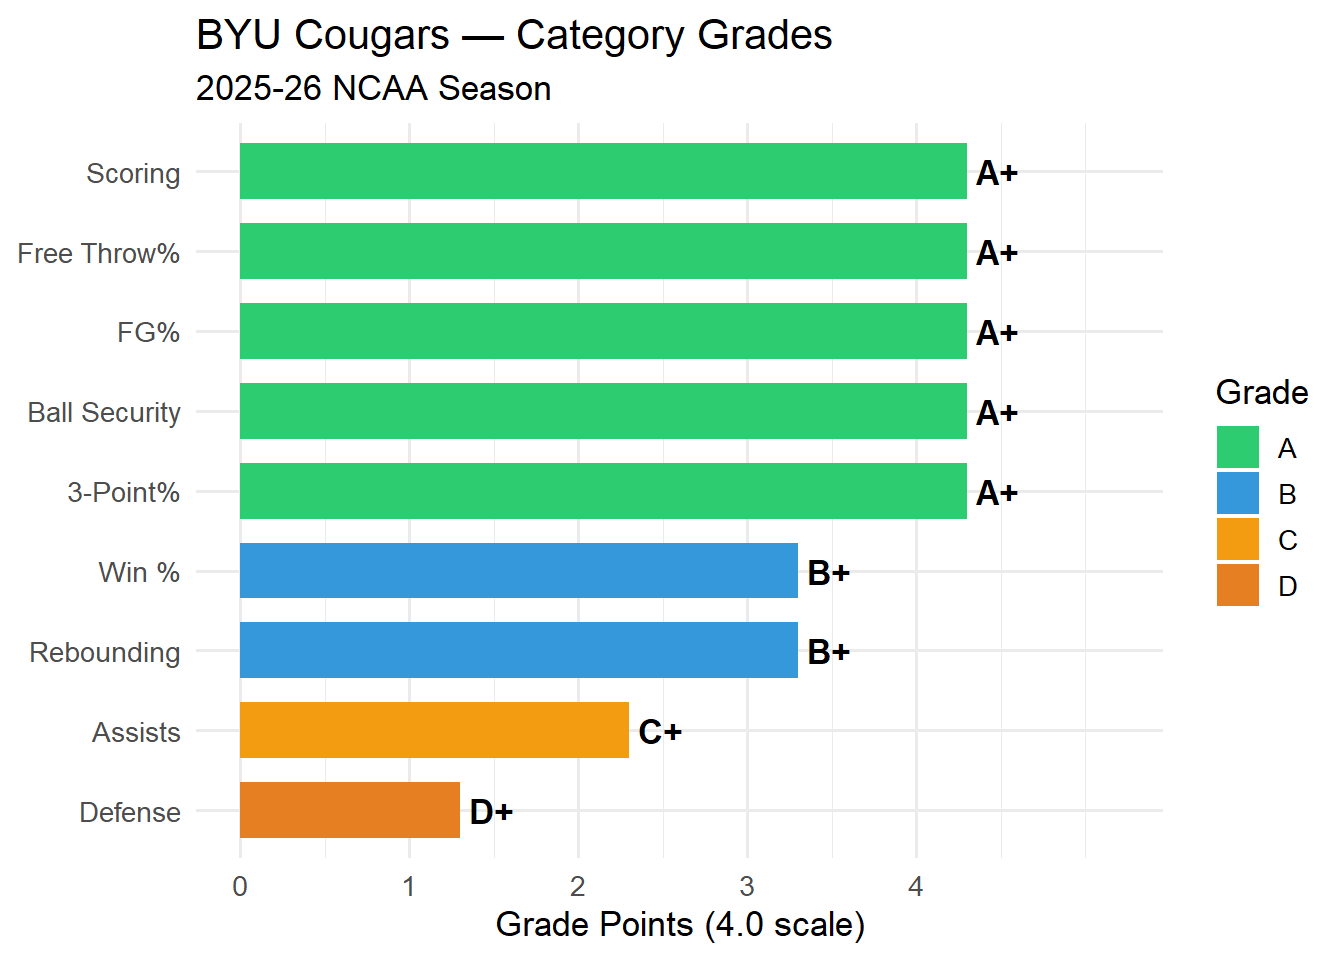
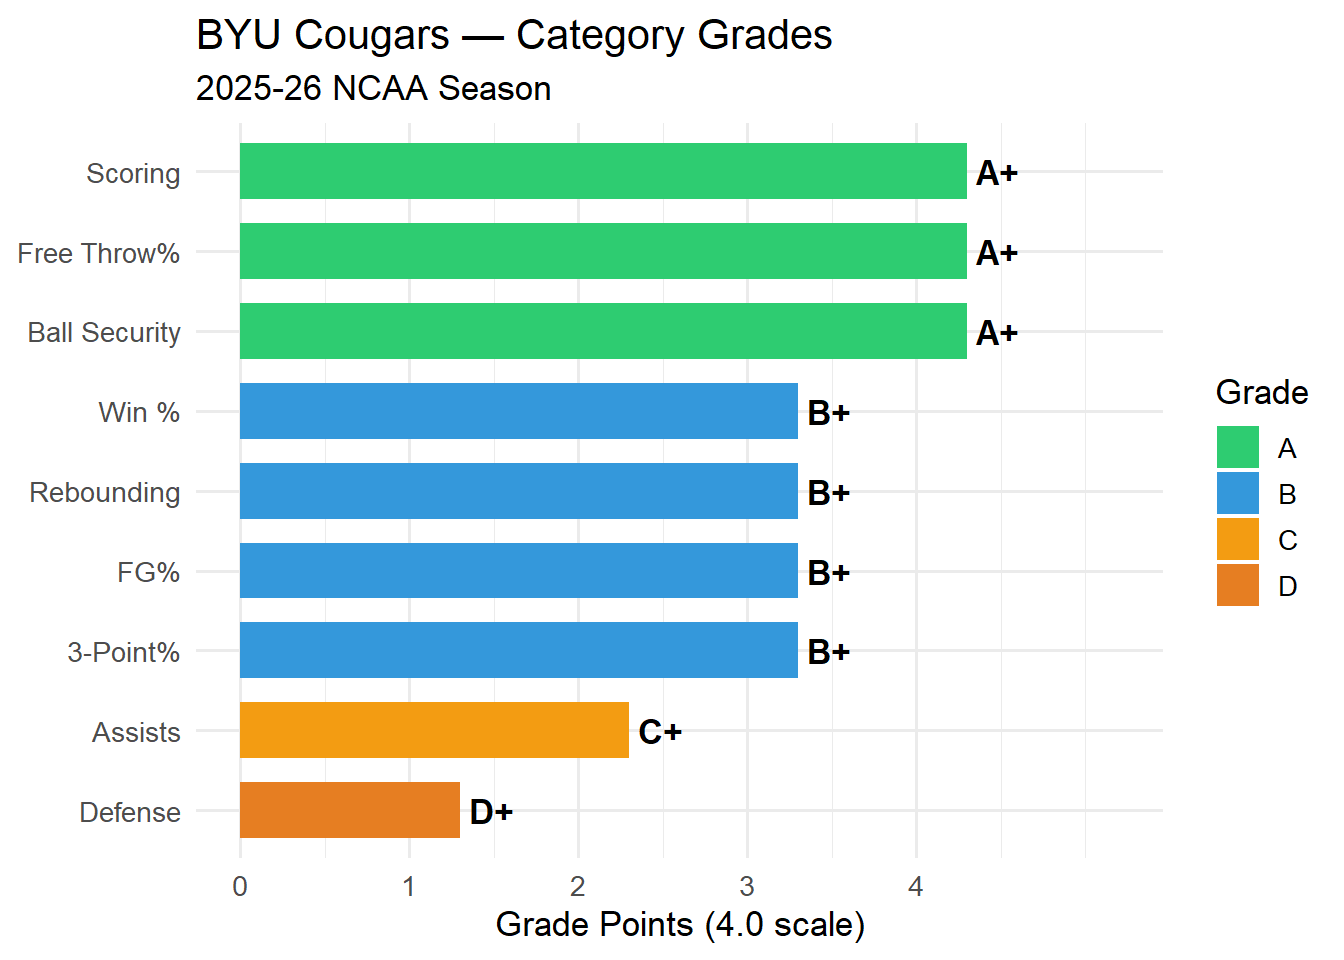
Fix FG%/3PT%/FT% double-scaling bug in BYU team-grade report
field_goal_pct and friends from hoopR are already 0-100, not 0-1
fractions, so multiplying by 100 in the averages chunk was inflating
them 100x (e.g. 4757.1% instead of 47.6%) and skewing the overall
grade from B+ to A-.

diff --git a/docs/ncaa/basketball/byu-cougars/team-grade.html b/docs/ncaa/basketball/byu-cougars/team-grade.html
@@ -278,7 +278,7 @@ pre > code.sourceCode > span > a:first-child::before { text-decoration: underlin
 <section id="byu-cougars-2025-26-season-report" class="level2">
 <h2 class="anchored" data-anchor-id="byu-cougars-2025-26-season-report">BYU Cougars — 2025-26 Season Report</h2>
 <p><strong>Record:</strong> 23-12 (65.7% win rate) | <strong>Games Graded:</strong> 35</p>
-<p><strong>Overall Season Grade: A-</strong></p>
+<p><strong>Overall Season Grade: B+</strong></p>
 <hr>
 </section>
 <section id="category-grades" class="level2">
@@ -400,15 +400,15 @@ pre > code.sourceCode > span > a:first-child::before { text-decoration: underlin
 </tr>
 <tr class="even">
 <td style="text-align: left;">Field Goal %</td>
-<td style="text-align: right;">4757.1%</td>
+<td style="text-align: right;">47.6%</td>
 </tr>
 <tr class="odd">
 <td style="text-align: left;">Three-Point %</td>
-<td style="text-align: right;">3420.0%</td>
+<td style="text-align: right;">34.2%</td>
 </tr>
 <tr class="even">
 <td style="text-align: left;">Free Throw %</td>
-<td style="text-align: right;">7520.0%</td>
+<td style="text-align: right;">75.2%</td>
 </tr>
 <tr class="odd">
 <td style="text-align: left;">Rebounds Per Game</td>
@@ -1101,9 +1101,9 @@ F-statistic: 41.88 on 1 and 33 DF,  p-value: 2.424e-07</code></pre>
 <span id="cb11-94"><a href="#cb11-94" aria-hidden="true" tabindex="-1"></a>  <span class="fu">mutate</span>(</span>
 <span id="cb11-95"><a href="#cb11-95" aria-hidden="true" tabindex="-1"></a>    <span class="at">team_score    =</span> <span class="fu">as.numeric</span>(team_score),</span>
 <span id="cb11-96"><a href="#cb11-96" aria-hidden="true" tabindex="-1"></a>    <span class="at">opp_score     =</span> <span class="fu">as.numeric</span>(opponent_team_score),</span>
-<span id="cb11-97"><a href="#cb11-97" aria-hidden="true" tabindex="-1"></a>    <span class="at">fg_pct        =</span> <span class="fu">as.numeric</span>(field_goal_pct)             <span class="sc">*</span> <span class="dv">100</span>,</span>
-<span id="cb11-98"><a href="#cb11-98" aria-hidden="true" tabindex="-1"></a>    <span class="at">three_pct     =</span> <span class="fu">as.numeric</span>(three_point_field_goal_pct) <span class="sc">*</span> <span class="dv">100</span>,</span>
-<span id="cb11-99"><a href="#cb11-99" aria-hidden="true" tabindex="-1"></a>    <span class="at">ft_pct        =</span> <span class="fu">as.numeric</span>(free_throw_pct)             <span class="sc">*</span> <span class="dv">100</span>,</span>
+<span id="cb11-97"><a href="#cb11-97" aria-hidden="true" tabindex="-1"></a>    <span class="at">fg_pct        =</span> <span class="fu">as.numeric</span>(field_goal_pct),</span>
+<span id="cb11-98"><a href="#cb11-98" aria-hidden="true" tabindex="-1"></a>    <span class="at">three_pct     =</span> <span class="fu">as.numeric</span>(three_point_field_goal_pct),</span>
+<span id="cb11-99"><a href="#cb11-99" aria-hidden="true" tabindex="-1"></a>    <span class="at">ft_pct        =</span> <span class="fu">as.numeric</span>(free_throw_pct),</span>
 <span id="cb11-100"><a href="#cb11-100" aria-hidden="true" tabindex="-1"></a>    <span class="at">total_reb     =</span> <span class="fu">as.numeric</span>(total_rebounds),</span>
 <span id="cb11-101"><a href="#cb11-101" aria-hidden="true" tabindex="-1"></a>    <span class="at">ast           =</span> <span class="fu">as.numeric</span>(assists),</span>
 <span id="cb11-102"><a href="#cb11-102" aria-hidden="true" tabindex="-1"></a>    <span class="at">stl           =</span> <span class="fu">as.numeric</span>(steals),</span>
